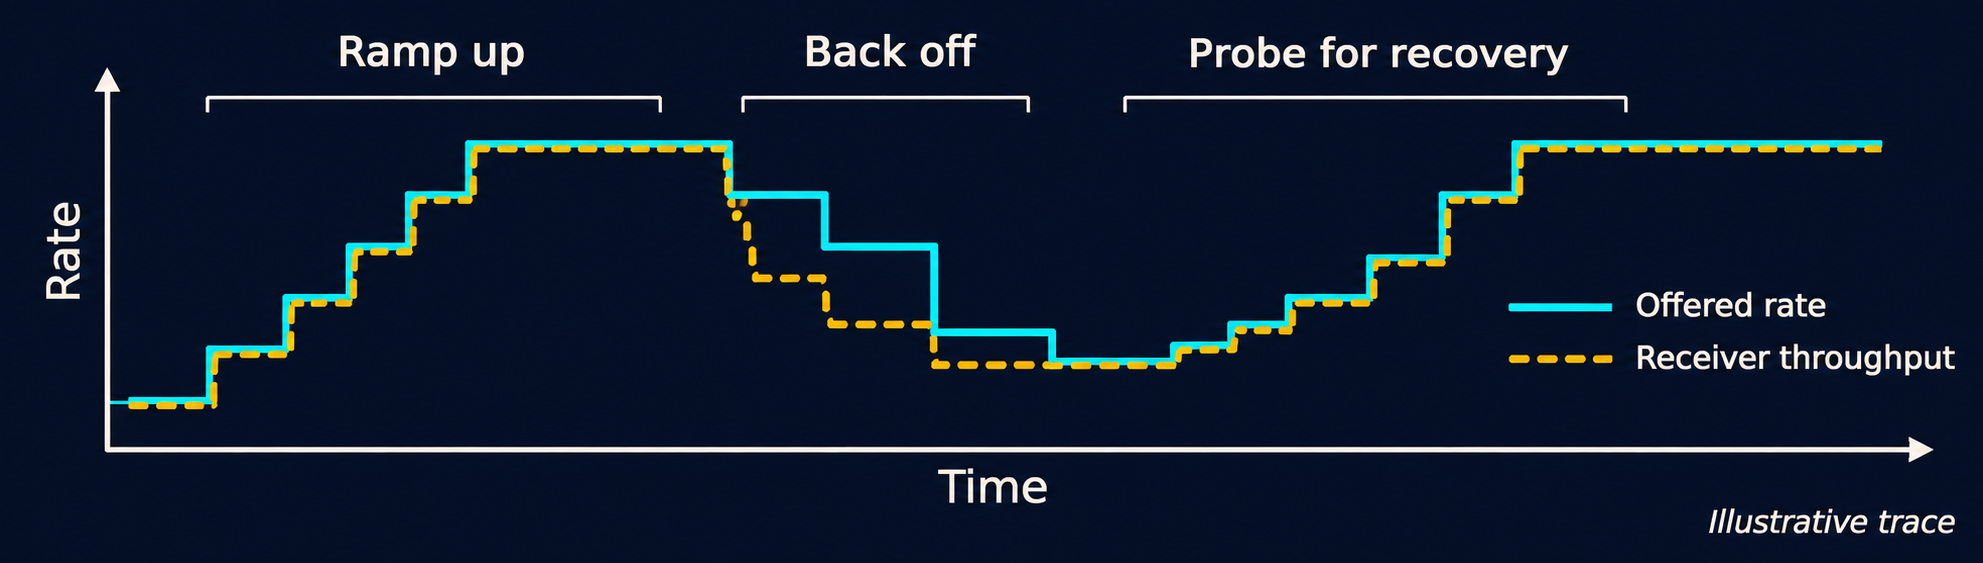
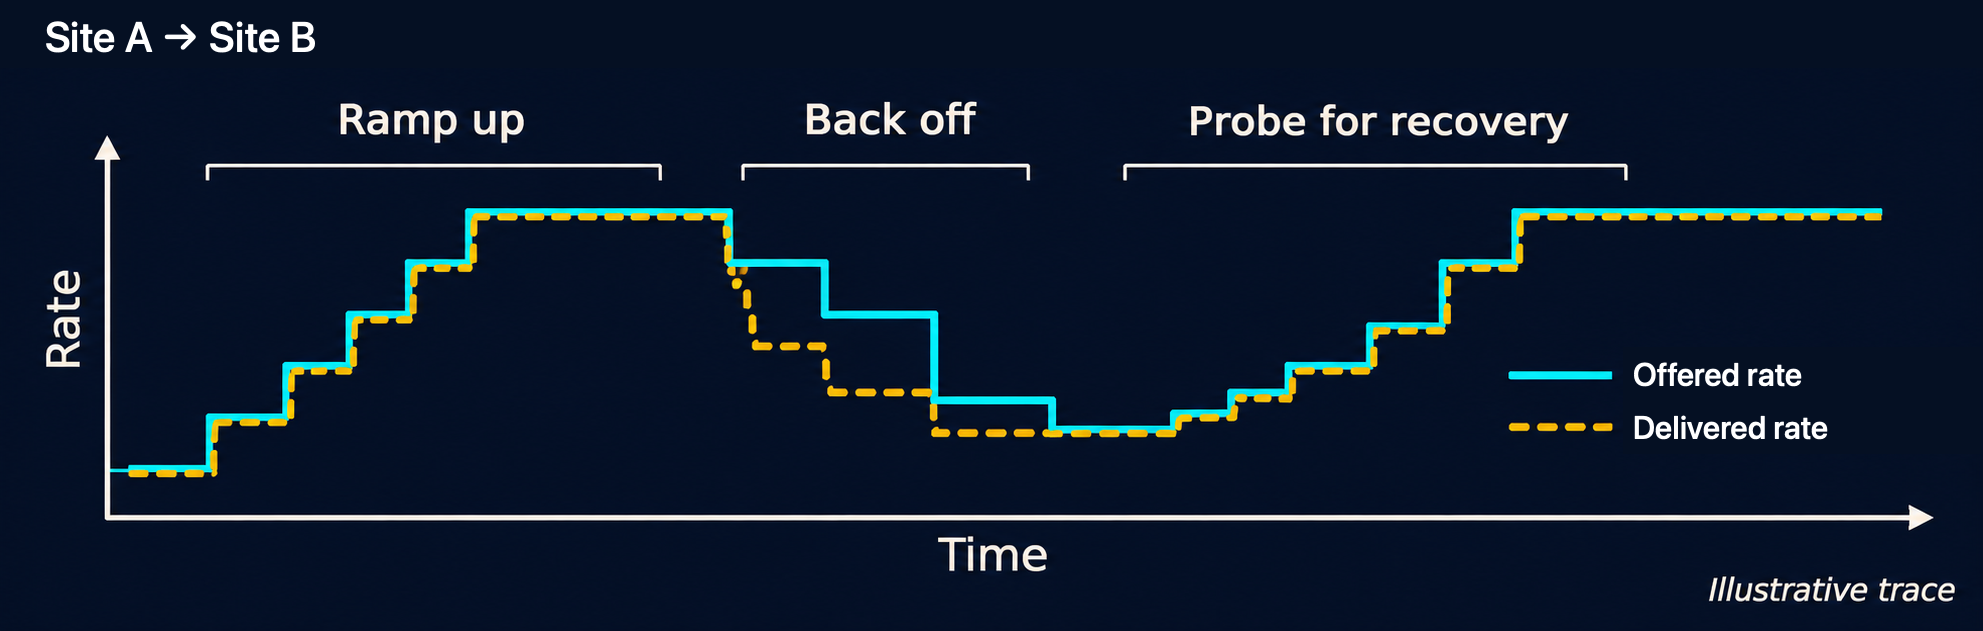
Explain independent testing between Site A and Site B

diff --git a/README.md b/README.md
@@ -1,12 +1,12 @@
 # ![EdgeWalker. Find your rate. Walk the edge.](docs/images/edgewalker-banner.png)
 
-How much traffic can your link carry when conditions change? EdgeWalker raises the sending rate in steps and checks what reaches the receiver. Each direction has its own controller and a ceiling you set.
+How much traffic can your link carry in each direction? EdgeWalker can test from Site A to Site B, from Site B to Site A, or in both directions at once. For each active direction, it adjusts the offered rate within the ceiling you set and measures how much traffic gets through.
 
 ## How EdgeWalker finds the edge
 
-![Illustrative trace of offered rate and receiver throughput during ramp-up, backoff and recovery probing.](docs/images/rate-and-recovery.png)
+![Illustrative trace from Site A to Site B. The offered and delivered rates climb together, diverge during impairment and converge again during recovery.](docs/images/rate-and-recovery.png)
 
-In this example, the solid blue line shows what the sender offers. The dashed yellow line shows what gets through. At first they climb together. When delivery falls behind, the sender backs off. It then tries small increases and checks the receiver again. As the link recovers, those probes let it find a higher sustainable rate.
+Follow the test from Site A to Site B. The solid blue line shows the rate Site A offers. The dashed yellow line shows the rate delivered to Site B. When delivery falls behind, EdgeWalker backs off. It periodically probes at a higher rate to see whether the link has recovered. In a two-way test, a separate controller makes the same assessment for traffic from Site B to Site A.
 
 [Install EdgeWalker](#install) · [Run your first calibration](#first-calibration) · [Run a measurement](#run-a-measurement)
 
